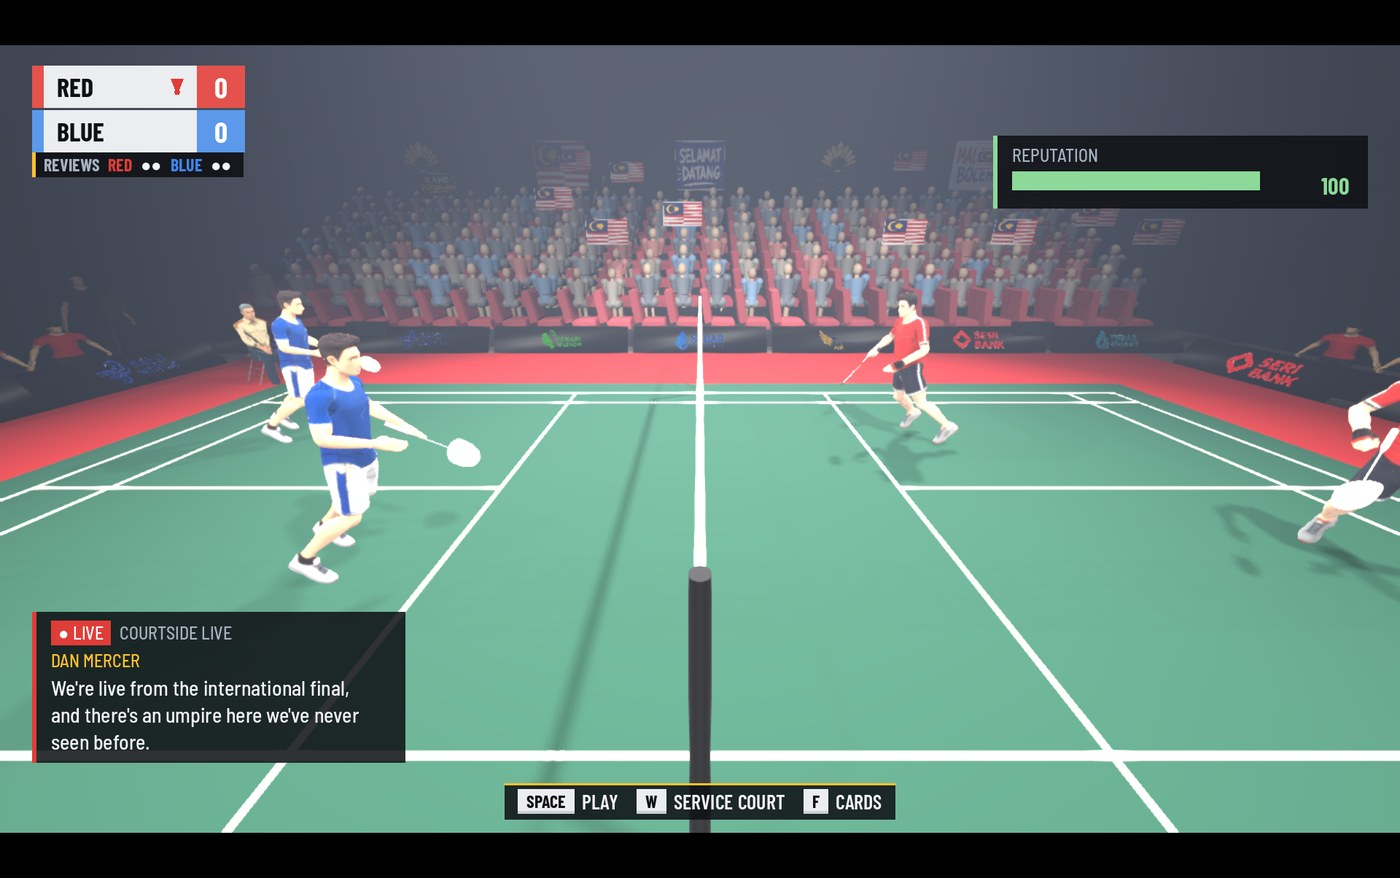
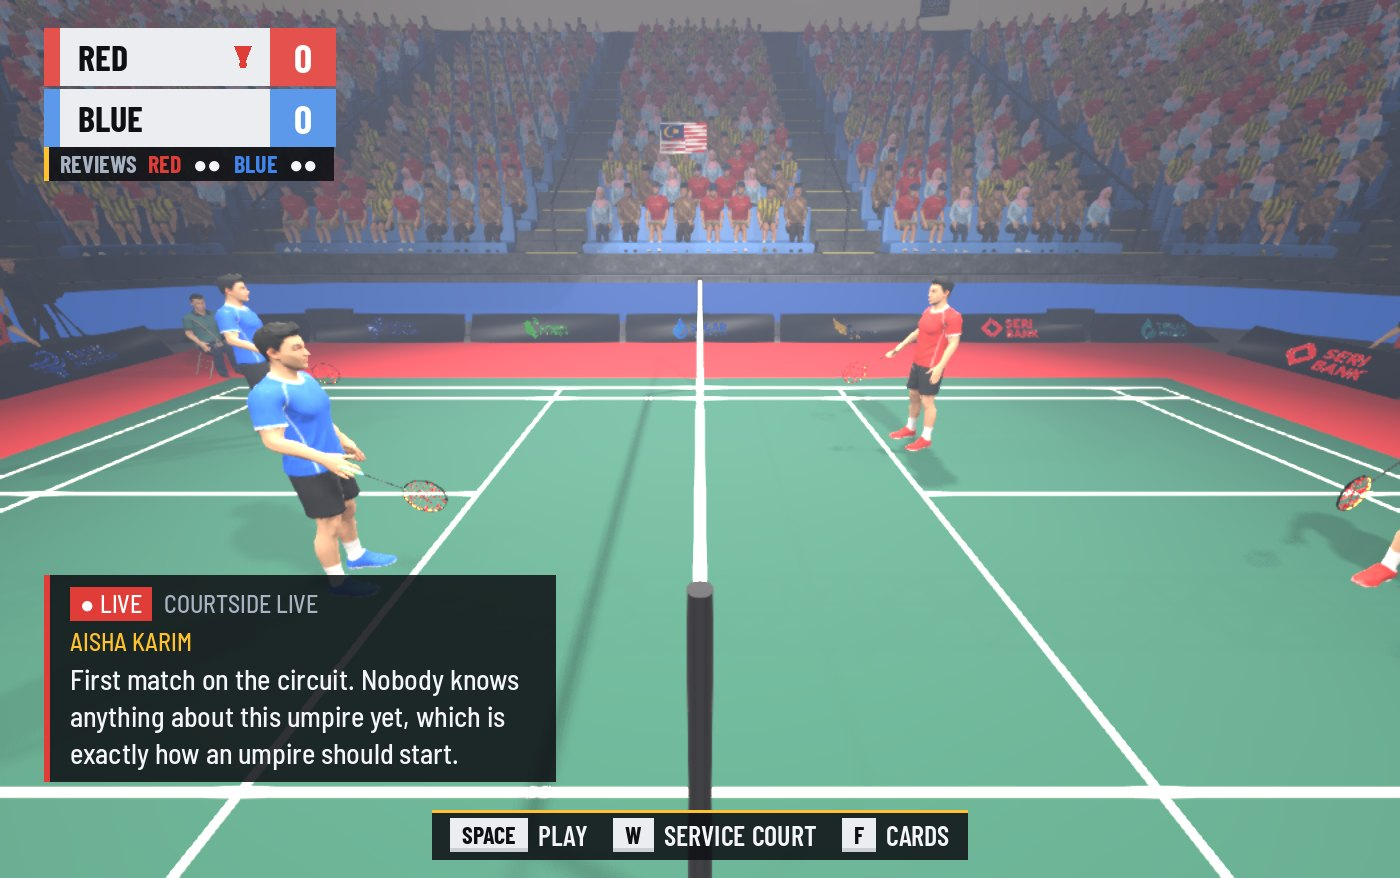
v0.3.0: point the site at it, with a picture of the new arena
The download buttons go to the v0.3.0 builds, the version note says what
is in it, the in-game shot is the badminton arena from the chair, and the
pitch deck names the modelled venues. The export leaves out the Meshy and
Tripo working files that no scene loads, which had taken the builds from
about 450 MB to 1.5 GB.

diff --git a/web/index.html b/web/index.html
@@ -369,7 +369,7 @@ footer .links a:hover{color:var(--caption)}
         <p>The feedback is the room: how the crowd sounds, whether a coach stands up, whether the player whose point you just took turns round and argues with the chair. Nobody in those seats will ever tell you where the ball landed, however angry they get. Every one of them is shouting about you.</p>
       </div>
       <figure>
-        <img src="img/shot-call.jpg" alt="The international final, from the umpire's chair: the reputation meter above, the commentary caption below, and a full hall in front">
+        <img src="img/shot-call.jpg" alt="The international final, from the umpire's chair: the score and reviews above, the commentary caption below, and a full arena in front">
         <figcaption>The international final. Your reputation is still intact, the commentary has noticed you are new, and every seat is taken.</figcaption>
       </figure>
     </div>
@@ -444,7 +444,7 @@ footer .links a:hover{color:var(--caption)}
         </div>
         <p class="file">Referee.For.Fun.dmg · 368 MB · universal</p>
         <p class="note">Open the disk image and drag <b>Referee For Fun</b> to Applications. The build is unsigned, so the first time you open it, <b>right-click the app and choose Open</b>, then confirm — a normal double-click will be blocked by Gatekeeper.</p>
-        <div class="dl"><a class="btn" href="https://github.com/juslangit/referee-for-fun/releases/download/v0.2.1/Referee.For.Fun.dmg">Download for macOS</a></div>
+        <div class="dl"><a class="btn" href="https://github.com/juslangit/referee-for-fun/releases/download/v0.3.0/Referee.For.Fun.dmg">Download for macOS</a></div>
       </div>
 
       <div class="plat" id="plat-win">
@@ -455,7 +455,7 @@ footer .links a:hover{color:var(--caption)}
         </div>
         <p class="file">Referee.For.Fun.exe · 413 MB · 64-bit</p>
         <p class="note">One file, no installer — put it in a folder and run it. SmartScreen will warn you because the build is unsigned: choose <b>More info</b>, then <b>Run anyway</b>.</p>
-        <div class="dl"><a class="btn" href="https://github.com/juslangit/referee-for-fun/releases/download/v0.2.1/Referee.For.Fun.exe">Download for Windows</a></div>
+        <div class="dl"><a class="btn" href="https://github.com/juslangit/referee-for-fun/releases/download/v0.3.0/Referee.For.Fun.exe">Download for Windows</a></div>
       </div>
     </div>
 
@@ -473,7 +473,7 @@ footer .links a:hover{color:var(--caption)}
       <div class="req">
         <h4>Honestly, before you download</h4>
         <dl>
-          <dt>Version</dt><dd>v0.2.1 — the crowd and its seats both turned to face the court, a credits screen, and a setting for how much of the hall to draw.</dd>
+          <dt>Version</dt><dd>v0.3.0 — realistic players, officials and crowd, and every sport in a real place: community halls at the bottom of the ladder, arenas drawn from the Axiata Arena, MITEC, Stadium Titiwangsa and Malawati, a tennis stadium and a beach under photographed skies.</dd>
           <dt>State</dt><dd>All six sports are in it and playable, with a career ladder each.</dd>
           <dt>Caveat</dt><dd>It has been played, but not widely. Tennis and table tennis are still flatly lit.</dd>
           <dt>Save</dt><dd>Local only. Your reputation never leaves your machine.</dd>

diff --git a/web/pitch/index.html b/web/pitch/index.html
@@ -304,7 +304,7 @@ h2 em,h1 em{font-style:italic;color:var(--caption)}
         <div class="fact"><div class="big">2</div><p>platforms you can download and play today: macOS and Windows, one file each</p></div>
       </div>
       <div class="cols2">
-        <div><h3>Built with</h3><ul><li>Godot 4.7.2, single player — keyboard, mouse or gamepad</li><li>Real physics for every ball and shuttle</li></ul></div>
+        <div><h3>Built with</h3><ul><li>Godot 4.7.2, single player — keyboard, mouse or gamepad</li><li>Real physics for every ball and shuttle</li><li>Venues modelled on real Malaysian arenas, from a dewan up to the Axiata Arena</li></ul></div>
         <div><h3>Next</h3><ul><li>Playtesting every sport by hand — sepak takraw is done</li><li>Tuning from what players tell us</li></ul></div>
       </div>
     </div>
